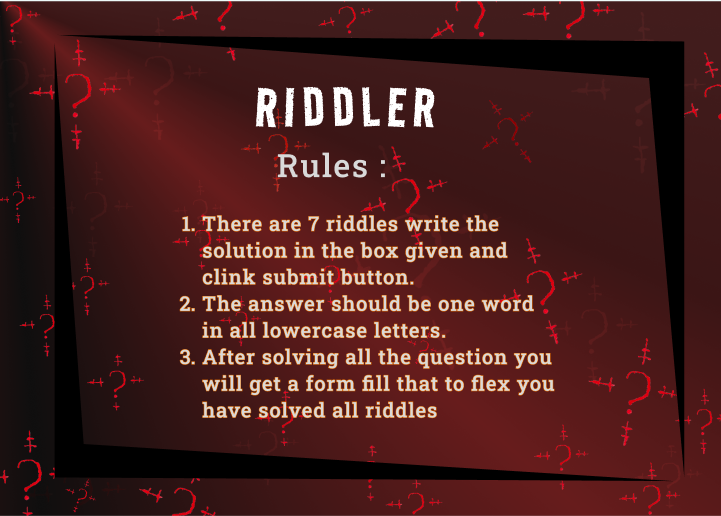
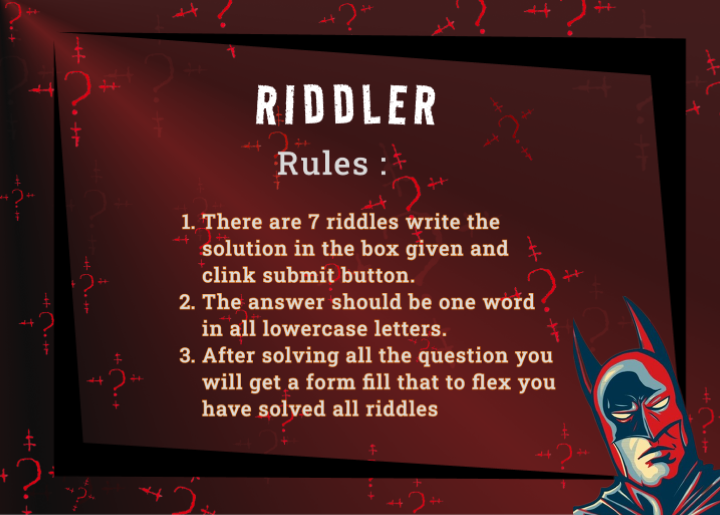
add

diff --git a/src/App.jsx b/src/App.jsx
@@ -12,8 +12,12 @@ import img4 from "./assets/ImageFolder/4.png"
 import img5 from "./assets/ImageFolder/5.png"
 import img6 from "./assets/ImageFolder/6.png"
 import img7 from "./assets/ImageFolder/7.png"
-
+import img8 from "./assets/ImageFolder/intro.png"
+import img9 from "./assets/ImageFolder/wrong.png"
+import img10 from "./assets/Images/home.png"
+import img11 from "./assets/Images/join.png"
 import QuizPage from './components/QuizPage';
+import Intro from './components/Intro';
 function App() {
 
   return (
@@ -22,7 +26,8 @@ function App() {
     <WebCursor />
     <Nav />
     <Routes>
-    <Route path='*' element={<><h1>Not Found</h1></>}/>
+    <Route path='/' element={<Intro images={img8} btnimg={img11} nav='/firstquestion'/>}/>
+    <Route path='*' element={<Intro images={img9} btnimg={img10} nav='/'/>}/>
     <Route path='/firstquestion' element={<QuizPage image={img1}/>}/>
     <Route path='/bribe' element={<QuizPage image={img2}/>}/>
     <Route path='/orphan' element={<QuizPage image={img3}/>}/>
@@ -31,7 +36,6 @@ function App() {
     <Route path='/shadow' element={<QuizPage image={img6}/>}/>
     <Route path='/vowels' element={<QuizPage image={img7}/>}/>
     <Route path='/brain' element={<FinalForm/>}/>
-
     </Routes>
 
     </BrowserRouter>

diff --git a/src/components/Intro/index.jsx b/src/components/Intro/index.jsx
@@ -1,0 +1,24 @@
+import "./index.css"
+import submitimg from "./../../assets/Images/submit.png"
+import bat from "./../../assets/Images/bat.png"
+import { useState } from "react";
+import { useNavigate} from "react-router-dom"
+import riddler from "./../../assets/Images/riddler.png"
+
+export default function Intro({images,btnimg,nav})
+{
+      const navigate= useNavigate();
+
+      const handle =() => {
+            navigate(nav);
+      };
+      
+    return(
+        <div className="Quiz">
+        <img src={bat} style={{height:"100px", width:"auto", padding:"0px",margin:"10px" }}/>
+        <img alt="Image" src={images} className="PicImage" />
+        <button className="" onClick={handle} style={{backgroundColor:"transparent", border:"0px", margin:"10px", padding:"0px"}}><img src={btnimg} style={{height:"28px",backgroundColor:"transparent", border:"0px", margin:"0px", padding:"0px"}}/></button>
+        <img src={riddler} style={{height:"30vh", width:"auto", padding:"0px",margin:"0px", position:"absolute",left:"0px",bottom:"0px"}}/>
+        </div>
+    )
+}

diff --git a/src/components/Intro/index.css b/src/components/Intro/index.css
@@ -1,0 +1,15 @@
+.Quiz{
+    display: flex;
+    flex-direction: column;
+    width: 100%;
+    height: 100%;
+    align-items: center;
+    justify-content: center;
+    padding: 1%;
+}
+
+.PicImage{
+    width: 70%;
+    height: auto;
+    max-width: 560px;
+}
